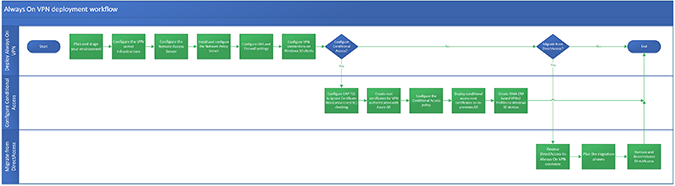
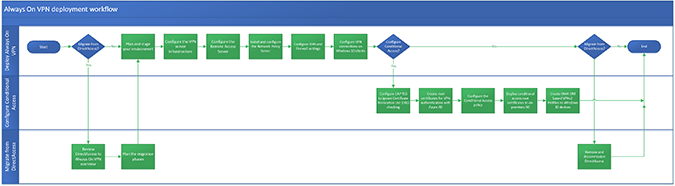
updated the logic of the workflow diagram

diff --git a/WindowsServerDocs/remote/remote-access/vpn/always-on-vpn/deploy/always-on-vpn-deploy-deployment.md b/WindowsServerDocs/remote/remote-access/vpn/always-on-vpn/deploy/always-on-vpn-deploy-deployment.md
@@ -38,6 +38,9 @@ To configure the server infrastructure, you must perform the following tasks:
 - **On an Active Directory Certificate Server CA:** Create the User Authentication, VPN Server Authentication, and NPS Server Authentication certificate templates.
 - **On domain-joined Windows 10 clients:** Enroll and validate user certificates.
 
+>[!IMPORTANT]
+>If you are migrating from DirectAccess, make sure you see [DirectAccess to Always On VPN migration overview](../../../da-always-on-vpn-migration/da-always-on-migration-overview.md) and [Plan the DirectAccess to Always On VPN migration](../../../da-always-on-vpn-migration/da-always-on-migration-planning.md) before continuing.
+
 ## [Step 2. Configure the Remote Access Server for Always On VPN](vpn-deploy-ras.md)
 
 In this step, you configure Remote Access VPN to allow IKEv2 VPN connections, deny connections from other VPN protocols, and assign a static IP address pool for issuance of IP addresses to connecting authorized VPN clients.
@@ -68,8 +71,8 @@ In this step, you configure the Windows 10 client computers to communicate with
 ## [Step 6. (Optional) Configure conditional access for VPN connectivity](../../ad-ca-vpn-connectivity-windows10.md) 
 In this optional step, you can fine-tune how authorized VPN users access your resources. With Azure AD conditional access for virtual private network (VPN) connectivity, you can help protect the VPN connections. Conditional Access is a policy-based evaluation engine that lets you create access rules for any Azure Active Directory (Azure AD) connected application. For more details, see [Azure Active Directory (Azure AD) conditional access](https://docs.microsoft.com/en-us/azure/active-directory/active-directory-conditional-access-azure-portal).
 
-## [Step 7. (Optional) DirectAccess to Always On VPN migration overview](../../../da-always-on-vpn-migration/da-always-on-migration-overview.md)
-In this optional step, you learn how Aways On VPN mitigated most limitations or expanded the VPN functionality beyond the capabilities of DirectAccess. You also plan your migration phases, which helps identify any issues before they affect the entire organization. After you deploy Always On VPN and plan your migration phases, you remove user devices from the DirectAccess security group so that you can later remove DirectAccess. Both Intune and System Center Configuration Manager contains user device assignment information to help you determine each user's device.  When you have finished migrating all your DirectAccess clients to Always On VPN, you can decommission the DirectAccess infrastructure and remove the DirectAccess settings from Group Policy.
+## [Step 7. (Optional) Remove user devices from DirectAccess and decommission the DirectAccess infrastructure](../../../da-always-on-vpn-migration/da-always-on-migration-deploy.md)
+In this optional step, you remove user devices from the DirectAccess security group so that you can later remove DirectAccess. Both Intune and System Center Configuration Manager contains user device assignment information to help you determine each user's device.  When you have finished migrating all your DirectAccess clients to Always On VPN, you can decommission the DirectAccess infrastructure and remove the DirectAccess settings from Group Policy. 
 
 
 ## Next step
